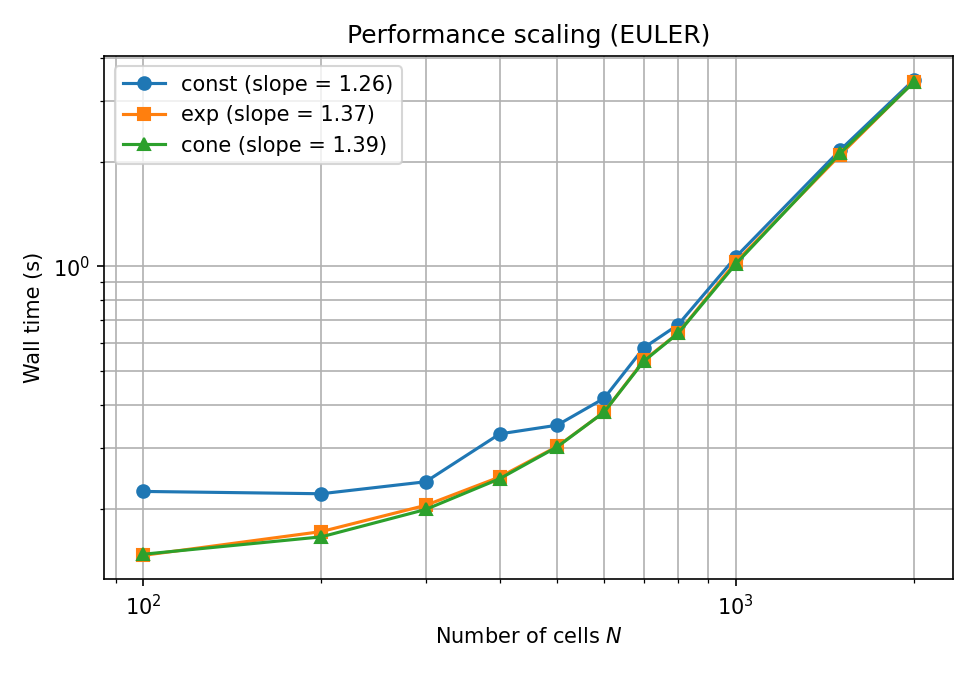
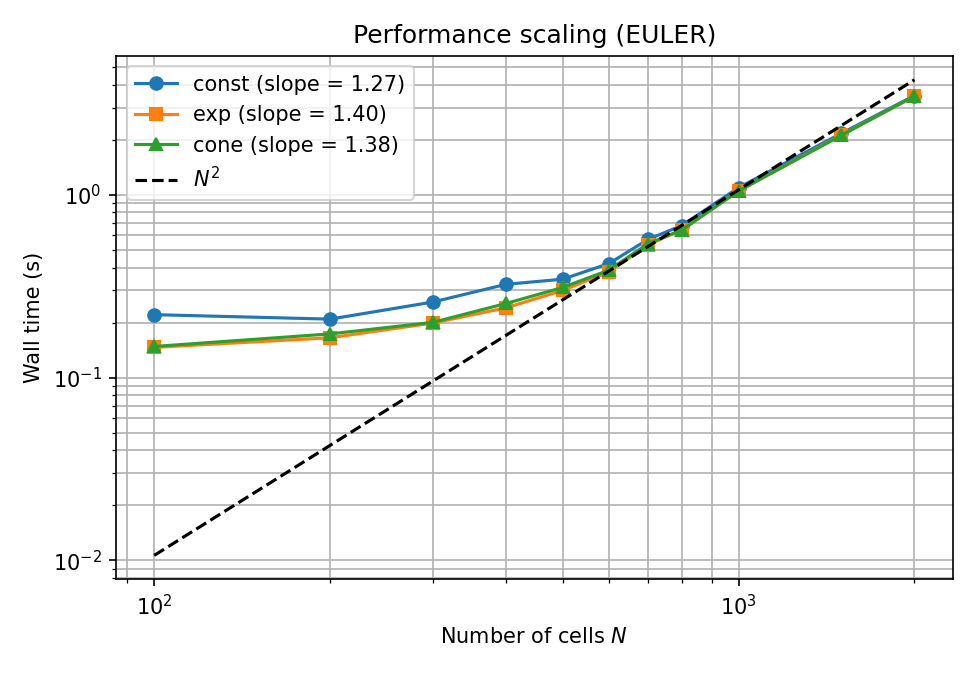
imporve performance study observation update .tex file

Changed region(s): [[0.0615, 0.0311, 0.9846, 0.9333], [0.4308, 0.9333, 0.6462, 0.9644]]

diff --git a/Report_and_Presentation/CSMI-M2-2025-auto-calibration-instrument-slides.tex b/Report_and_Presentation/CSMI-M2-2025-auto-calibration-instrument-slides.tex
@@ -148,13 +148,13 @@ Chaigne, A. (2010). "Physical models of musical instruments". HAL.
 \noindent\begin{minipage}[t]{\linewidth}
 \begin{subequations}
 \begin{empheq}[left=\empheqlbrace]{align}
-    \frac{S(x)}{c S^\ast}\,\partial_t p(x,t) + \partial_x v(x,t) &= 0 \label{eq:1a}\\[4pt]
-    \frac{S^\ast}{c S(x)}\,\partial_t v(x,t) + \partial_x p(x,t) &= 0 \label{eq:1b}\\[4pt]
-    Z^\ast_T\,\partial_t \phi + \sqrt{\alpha}\,p(L,t) &= 0 \label{eq:1c}\\[4pt]
-    -\frac{\beta}{Z^\ast_T}\,p(L,t) + v(L,t) + \sqrt{\alpha}\,\phi &= 0 \label{eq:1d}\\[4pt]
-    -v(0,t) + \zeta \ell(y)\,F(\gamma - p(0,t)) + \varepsilon\frac{\kappa}{\omega_r}\,\partial_t y &= 0 \label{eq:1e}\\[6pt]
+    \frac{S(x)}{c S^\ast}\,\partial_t p(x,t) + \partial_x v(x,t) &= 0\\[4pt]
+    \frac{S^\ast}{c S(x)}\,\partial_t v(x,t) + \partial_x p(x,t) &= 0 \\[4pt]
+    Z^\ast_T\,\partial_t \phi + \sqrt{\alpha}\,p(L,t) &= 0 \\[4pt]
+    -\frac{\beta}{Z^\ast_T}\,p(L,t) + v(L,t) + \sqrt{\alpha}\,\phi &= 0 \\[4pt]
+    -v(0,t) + \zeta \ell(y)\,F(\gamma - p(0,t)) + \varepsilon\frac{\kappa}{\omega_r}\,\partial_t y &= 0 \\[6pt]
     \frac{1}{\omega_r^2}\,\partial_{tt} y + \frac{1}{Q_r\omega_r}\,\partial_t y + y - 1 
-    &= \varepsilon(\gamma - p(0,t)) \label{eq:1f}
+    &= \varepsilon(\gamma - p(0,t)) 
 \end{empheq}
 \end{subequations}
 \end{minipage}
@@ -164,8 +164,8 @@ Chaigne, A. (2010). "Physical models of musical instruments". HAL.
 \noindent\begin{minipage}[t]{\linewidth}
 \begin{subequations}
 \begin{empheq}[left=\empheqlbrace]{align}
-    \frac{S(x)}{c S^\ast}\,\partial_t p(x,t) + \partial_x v(x,t) &= 0 \\[4pt]
-    \frac{S^\ast}{c S(x)}\,\partial_t v(x,t) + \partial_x p(x,t) &= 0
+    \frac{S(x)}{c S^\ast}\,\partial_t p(x,t) + \partial_x v(x,t) &= 0\label{eq:1a} \\[4pt]
+    \frac{S^\ast}{c S(x)}\,\partial_t v(x,t) + \partial_x p(x,t) &= 0\label{eq:1b}
 \end{empheq}
 \end{subequations}
 \end{minipage}
@@ -181,27 +181,37 @@ Michel-Dansac, V., Thibault, A., Franck, E., Chabassier, J., Navoret, L. (2024).
 \end{frame}
 
 \slideTitle{Physical Model}
+\begin{itemize}
+    \item At the outlet $x=L$ : Influence of exterior environment through a condition
+    of radiation impedance \footnotemark[1],
+\end{itemize}
 \noindent\begin{minipage}[t]{\linewidth}
 \begin{subequations}
 \begin{empheq}[left=\empheqlbrace]{align}
-    &Z^\ast_T\,\partial_t \phi + \sqrt{\alpha}\,p(L,t) = 0 \\[4pt]
-    -&\frac{\beta}{Z^\ast_T}\,p(L,t) + v(L,t) + \sqrt{\alpha}\,\phi = 0 
+    &Z^\ast_T\,\partial_t \phi + \sqrt{\alpha}\,p(L,t) = 0 \label{eq:1c} \\[4pt]
+    -&\frac{\beta}{Z^\ast_T}\,p(L,t) + v(L,t) + \sqrt{\alpha}\,\phi = 0 \label{eq:1d} 
 \end{empheq}
 \end{subequations}
 \end{minipage}
 \begin{itemize}
-    \item Equations \eqref{eq:1c} and \eqref{eq:1d}: Radiative phenomenons ($\phi$).
+    \item \ref{eq:1c} : time evolution of the boundary variable $\phi(t)$. (Euler Explicit or RK2 time integration).
+    \item \ref{eq:1d} enforces a dynamic impedance relation between pressure and velocity (link to DG).
     \item $Z_T^\ast$: characteristic impedance, $\alpha,\beta$: parameters related to the acoustic load.
 \end{itemize}
+
+\footnotetext[1]{
+{\footnotesize \cite{thibault}
+Thibault, Alexis (2023), \emph{Mod{\'e}lisation, analyse et simulation de l'acoustique dissipative dans les tubes poreux ou rugueux : application aux instruments {\`a} vent}}
+}
 \end{frame}
 
 \slideTitle{Physical Model}
 \noindent\begin{minipage}[t]{\linewidth}
 \begin{subequations}
 \begin{empheq}[left=\empheqlbrace]{align}
-    -&v(0,t) + \zeta \ell(y)\,F(\gamma - p(0,t)) + \varepsilon\frac{\kappa}{\omega_r}\,\partial_t y = 0 \\[6pt]
+    -&v(0,t) + \zeta \ell(y)\,F(\gamma - p(0,t)) + \varepsilon\frac{\kappa}{\omega_r}\,\partial_t y = 0 \label{eq:1e} \\[6pt]
     &\frac{1}{\omega_r^2}\,\partial_{tt} y + \frac{1}{Q_r\omega_r}\,\partial_t y + y - 1 
-    = \varepsilon(\gamma - p(0,t))
+    = \varepsilon(\gamma - p(0,t)) \label{eq:1f}
 \end{empheq}
 \end{subequations}
 \end{minipage}
@@ -269,16 +279,18 @@ Assume that $u_h^n$ (approximation of $u(\cdot,t^n)$) is known.
 \slideTitle{Discontinuous Galerkin Method (cont.)}
 \begin{itemize}
     \item Integration by parts yields:
-    \tiny
+    \small
     \begin{equation}
+        \begin{aligned}
         \sum_j \alpha_{k,j}^{n+1}
         \int_{\Omega_k} \phi_j(x)\phi_i(x)\,dx
-        =
+        &= 
         \int_{\Omega_k} u_k^n(x)\phi_i(x)\,dx
-        +
-        \Delta t\int_{\Omega_k} F\big(u_k^n(x)\big)\partial_x\phi_i(x)\,dx
+        +\\
+        &\Delta t\int_{\Omega_k} F\big(u_k^n(x)\big)\partial_x\phi_i(x)\,dx
         -
         \Delta t\left[ F(u_k^n)\phi_i \right]_{\partial\Omega_k}
+        \end{aligned}
     \end{equation}
     \normalsize
     \item Define the local mass matrix
@@ -287,7 +299,7 @@ Assume that $u_h^n$ (approximation of $u(\cdot,t^n)$) is known.
     $
     \item The local system (on each element $\Omega_k$) reads:
     \begin{equation}
-        M\,\boldsymbol{\alpha}_k^{\,n+1} = \mathbf{b}_k,
+        M\,\boldsymbol{\alpha}_k^{\,n+1} = \mathbf{b}_k^n,
     \end{equation}
     where $\mathbf{b}_k$ depends only on $u_k^n$ and numerical fluxes.
 \end{itemize}
@@ -299,7 +311,7 @@ Assume that $u_h^n$ (approximation of $u(\cdot,t^n)$) is known.
 \slideTitle{DG in our context}
 
 \begin{itemize}
-    \item Mixed formulation of the one-dimensional wave equation with variable cross-section:
+    \item From the general expression : 
     \small
     \begin{equation}
         \mathbf{C}(x)\,\partial_t \mathbf{u}
@@ -336,6 +348,7 @@ Assume that $u_h^n$ (approximation of $u(\cdot,t^n)$) is known.
     \]
     \item The domain is partitioned into $N$ non-overlapping cells
     $K_j = [x_{j-1},x_j]$.
+    \item Mixed formulation of the one-dimensional wave equation with variable cross-section:
 \end{itemize}
 
 \begin{equation}
@@ -350,17 +363,6 @@ Assume that $u_h^n$ (approximation of $u(\cdot,t^n)$) is known.
 \normalsize
 \end{equation}
 
-where
-\small
-\[
-\mathbf{F}(\mathbf{u}) = \mathbf{A}\mathbf{u}
-=
-\begin{pmatrix}
-v \\
-p
-\end{pmatrix}.
-\]
-\normalsize
 \end{frame}
 
 \subsubsection{Rusanov Flux}
@@ -392,44 +394,6 @@ p
         \lambda_{j+\frac12} = c.
     \]
 \end{itemize}
-
-\begin{columns}
-\column{0.48\textwidth}
-\[
-\mathbf{u}^\pm =
-\begin{pmatrix}
-p^\pm \\
-v^\pm
-\end{pmatrix}
-\]
-
-\column{0.48\textwidth}
-\[
-\widehat{\mathbf{F}} =
-\begin{pmatrix}
-\widehat{v} \\
-\widehat{p}
-\end{pmatrix}
-\]
-\end{columns}
-
-\[
-\boxed{
-\begin{aligned}
-\widehat{v}
-&=
-\frac12\left(v^- + v^+\right)
--
-\frac{c}{2}\left(p^+ - p^-\right),
-\\
-\widehat{p}
-&=
-\frac12\left(p^- + p^+\right)
--
-\frac{c}{2}\left(v^+ - v^-\right).
-\end{aligned}
-}
-\]
 
 \end{frame}
 
@@ -562,7 +526,8 @@ Thibault, Alexis (2023), \emph{Mod{\'e}lisation, analyse et simulation de l'acou
     c_1=\frac{\sqrt{\alpha}}{2Z_T^\ast}, \quad
     c_2=c_1 b.
     \]
-    \item Solve $\phi(t)$ (Euler explicit or RK2), then propagate $w^-_{\mathrm{ref}}$ along the characteristic.
+    \item Solve $\phi(t)$ (Euler explicit or RK2)
+    \item $w^-_{\mathrm{ref}}(x,t)=w^-_{\mathrm{ref}}(L,t-\frac{L-x}{c})$
 \end{itemize}
 \end{frame}
 
@@ -750,13 +715,8 @@ Hesthaven and Warburton (2008), \emph{Nodal Discontinuous Galerkin Methods}, Sec
 \par\medskip
 \label{fig:execution_time}
 \normalsize
-$$
-\text{T-Scale}_\text{euler}<\text{T-Scale}_\text{rk2}<\text{N}^2
-$$
-Good News !
-    
+For larger $N$, the execution time scales $\sim N^2$, as expected.
 \end{frame}
-
 \section{Conclusion}
 \slideTitle{Conclusion}
 

diff --git a/Report_and_Presentation/CSMI-M2-2025-auto-calibration-instrument.tex b/Report_and_Presentation/CSMI-M2-2025-auto-calibration-instrument.tex
@@ -140,13 +140,13 @@ and the effects of the instrumental player \eqref{eq:1e} \eqref{eq:1f} :
 % Système d'équations décrivant un modèle réducteur pour un instrument à anche
 \begin{subequations}
 \begin{empheq}[left=\empheqlbrace]{align}
-  \frac{S(x)}{c S^\ast}\,\partial_t p(x,t) + \partial_x v(x,t) &= 0 \label{eq:1a}\\[4pt]
-  \frac{S^\ast}{c S(x)}\,\partial_t v(x,t) + \partial_x p(x,t) &= 0 \label{eq:1b}\\[4pt]
-  Z^\ast_T\,\partial_t \phi + \sqrt{\alpha}\,p(L,t) &= 0 \label{eq:1c}\\[4pt]
-  -\frac{\beta}{Z^\ast_T}\,p(L,t) + v(L,t) + \sqrt{\alpha}\,\phi &= 0 \label{eq:1d}\\[4pt]
-  -v(0,t) + \zeta \ell(y)\,F(\gamma - p(0,t)) + \varepsilon\frac{\kappa}{\omega_r}\,\partial_t y &= 0 \label{eq:1e}\\[6pt]
-  \frac{1}{\omega_r^2}\,\partial_{tt} y + \frac{1}{Q_r\omega_r}\,\partial_t y + y - 1 
-  &= \varepsilon(\gamma - p(0,t)) \label{eq:1f}
+\frac{S(x)}{c S^\ast}\,\partial_t p(x,t) + \partial_x v(x,t) &= 0 \label{eq:1a}\\[4pt]
+\frac{S^\ast}{c S(x)}\,\partial_t v(x,t) + \partial_x p(x,t) &= 0 \label{eq:1b}\\[4pt]
+Z^\ast_T\,\partial_t \phi + \sqrt{\alpha}\,p(L,t) &= 0 \label{eq:1c}\\[4pt]
+-\frac{\beta}{Z^\ast_T}\,p(L,t) + v(L,t) + \sqrt{\alpha}\,\phi &= 0 \label{eq:1d}\\[4pt]
+-v(0,t) + \zeta \ell(y)\,F(\gamma - p(0,t)) + \varepsilon\frac{\kappa}{\omega_r}\,\partial_t y &= 0 \label{eq:1e}\\[6pt]
+\frac{1}{\omega_r^2}\,\partial_{tt} y + \frac{1}{Q_r\omega_r}\,\partial_t y + y - 1 
+&= \varepsilon(\gamma - p(0,t)) \label{eq:1f}
 \end{empheq}
 \end{subequations}
 
@@ -1027,9 +1027,9 @@ Table~\ref{tab:sim_parameters}, with a final simulation time of $T = 0.5\ \mathr
     \label{fig:performance_euler}
 \end{figure}
 
-The performance results indicate that the execution time scales under $N^2$. 
+The performance results indicate that the execution time scales around $N^2$ for large $N$ values. 
 Since the performance study was done in JAX framework, the first run includes
-compilation time. This explains the higher execution time for the smallest $N$ values 
+compilation time. This explains the slightly larger (almost a plateau) time for the smallest $N$ values 
 for the constant cross-section case in Figure~\ref{fig:performance_euler}.
 
 \newpage
@@ -1044,7 +1044,7 @@ for the constant cross-section case in Figure~\ref{fig:performance_euler}.
     \label{fig:performance_rk2}
 \end{figure}
 
-The performance results for the RK2 explicit time integration scheme also show a scaling of execution time under $N^2$ 
+The performance results for the RK2 explicit time integration scheme also show a scaling of execution time around $N^2$  for large $N$ values 
 but superior to the Euler explicit time integration scheme as expected due to the additional computations involved in the RK2 method.
 That also explain the higher execution time in the performance study in Table~\ref{tab:performance-rk2}.
  

diff --git a/performance.py b/performance.py
@@ -201,7 +201,16 @@ def main():
                 color=colors[i],
                 label=f"{type_S} (slope = {slope:.2f})"
             )
-
+        # reference N^2 curve 
+        Ns_arr = np.array(Ns)
+        if 1000 in Ns_arr:
+            idx1000 = int(np.where(Ns_arr == 1000)[0][0])
+            t_refs = [exec_times[t][idx1000] for t in types if len(exec_times[t]) > idx1000]
+            if t_refs:
+                Tref = np.mean(t_refs)
+                N_line = np.linspace(Ns_arr.min(), Ns_arr.max(), 400)
+                T_line = Tref * (N_line / 1000.0) ** 2
+                plt.plot(N_line, T_line, linestyle="--", color="black", label=r"$N^2$")
 
         plt.xlabel("Number of cells $N$")
         plt.ylabel("Wall time (s)")
